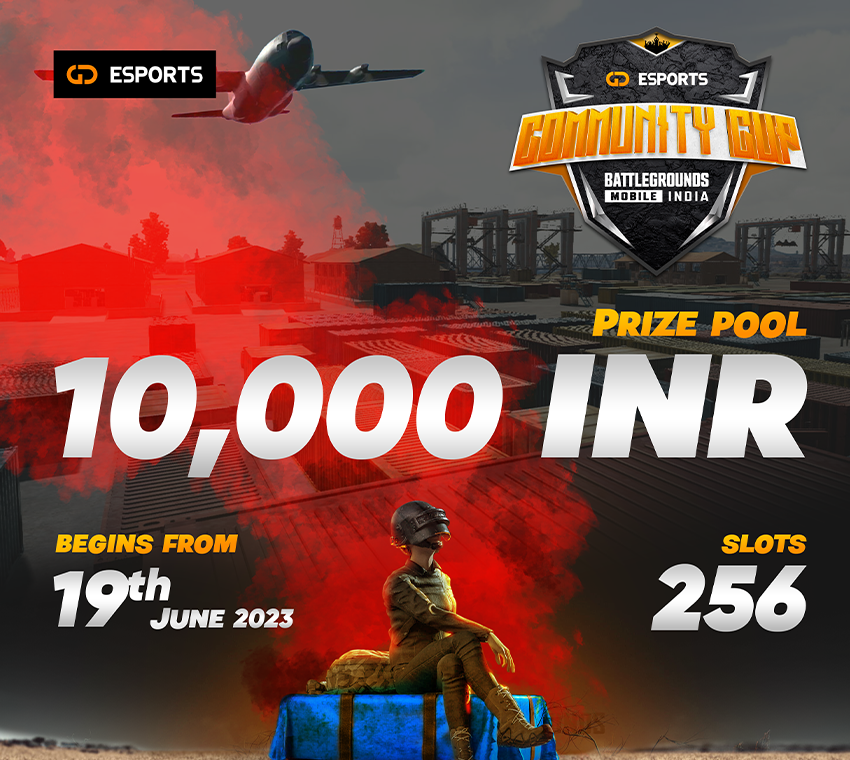
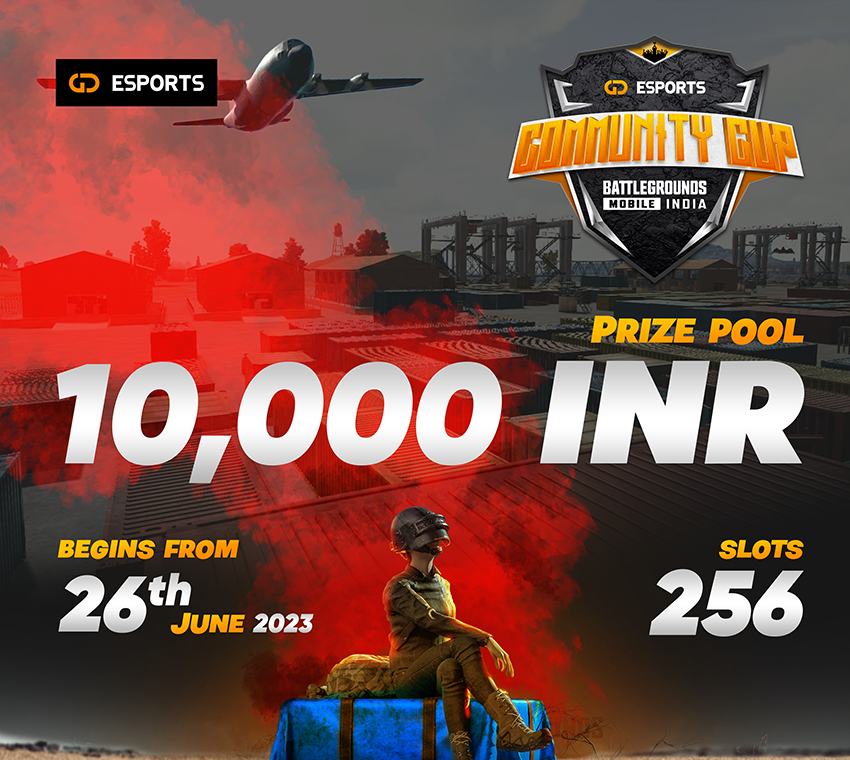
date change og BGMI

diff --git a/gd-form copy 2/script.js b/gd-form copy 2/script.js
@@ -1,7 +1,7 @@
 let timer;
 
 const compareDate = new Date();
-var countDownDate = new Date("JUNE 19, 2023 16:37:52").getTime();
+var countDownDate = new Date("JUNE 24, 2023 16:37:52").getTime();
 
 compareDate.setDate(compareDate.getDate() + 11); //just for this demo today + 7 days
 

diff --git a/index.html b/index.html
@@ -588,7 +588,7 @@
 			<div class="footer-container">
 				<a href="#" class="link-item">
 					<img
-						src="../gdesports/gd-form/Asset 6@1 (1).svg"
+						src="./gd-form/Asset 6@1 (1).svg"
 						class="footer-logo"
 						alt="footer-logo"
 				/></a>

diff --git a/gd-form copy 2/form.html b/gd-form copy 2/form.html
@@ -69,7 +69,7 @@
 								<img src="./pngs/flat-color-icons_overtime.png" />
 								<div>
 									<h2>Start Date</h2>
-									<p>19 June 2023</p>
+									<p>26 June 2023</p>
 								</div>
 							</div>
 
